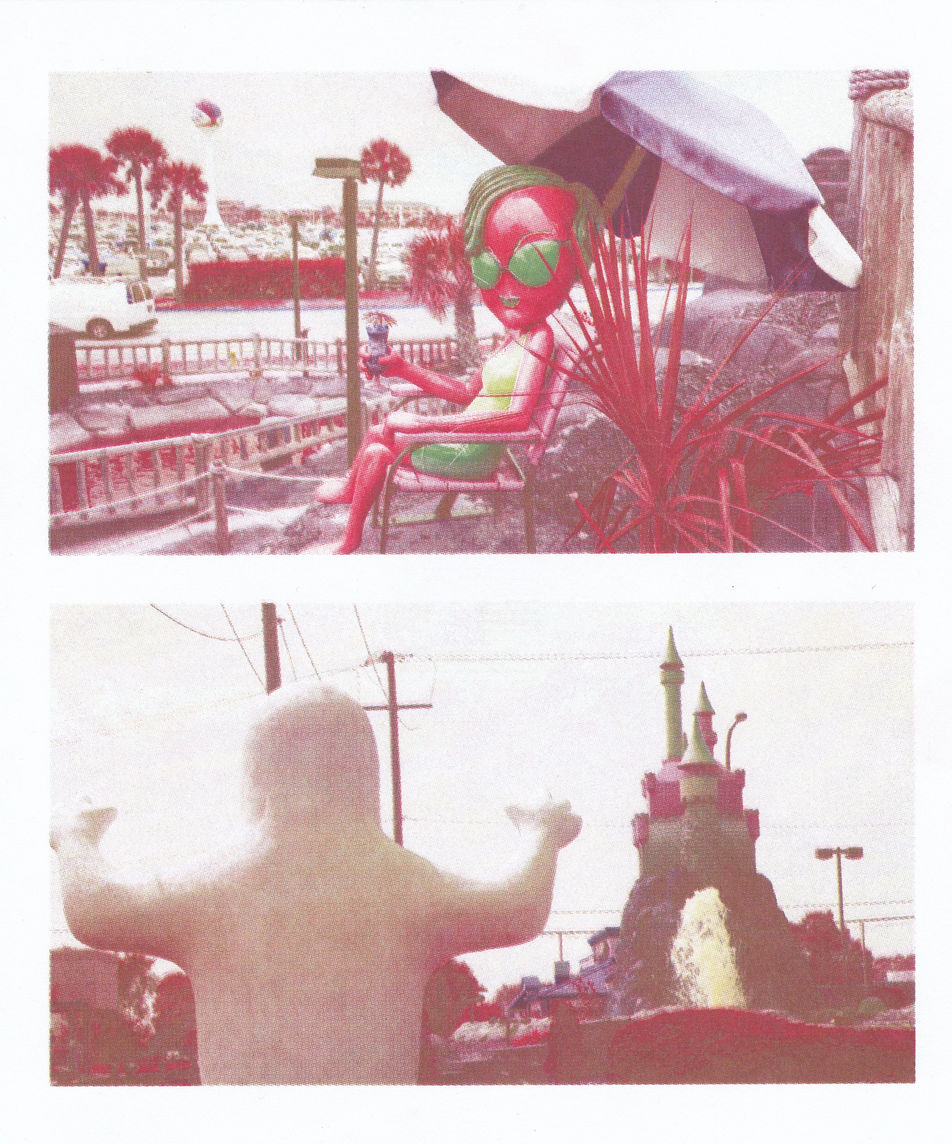
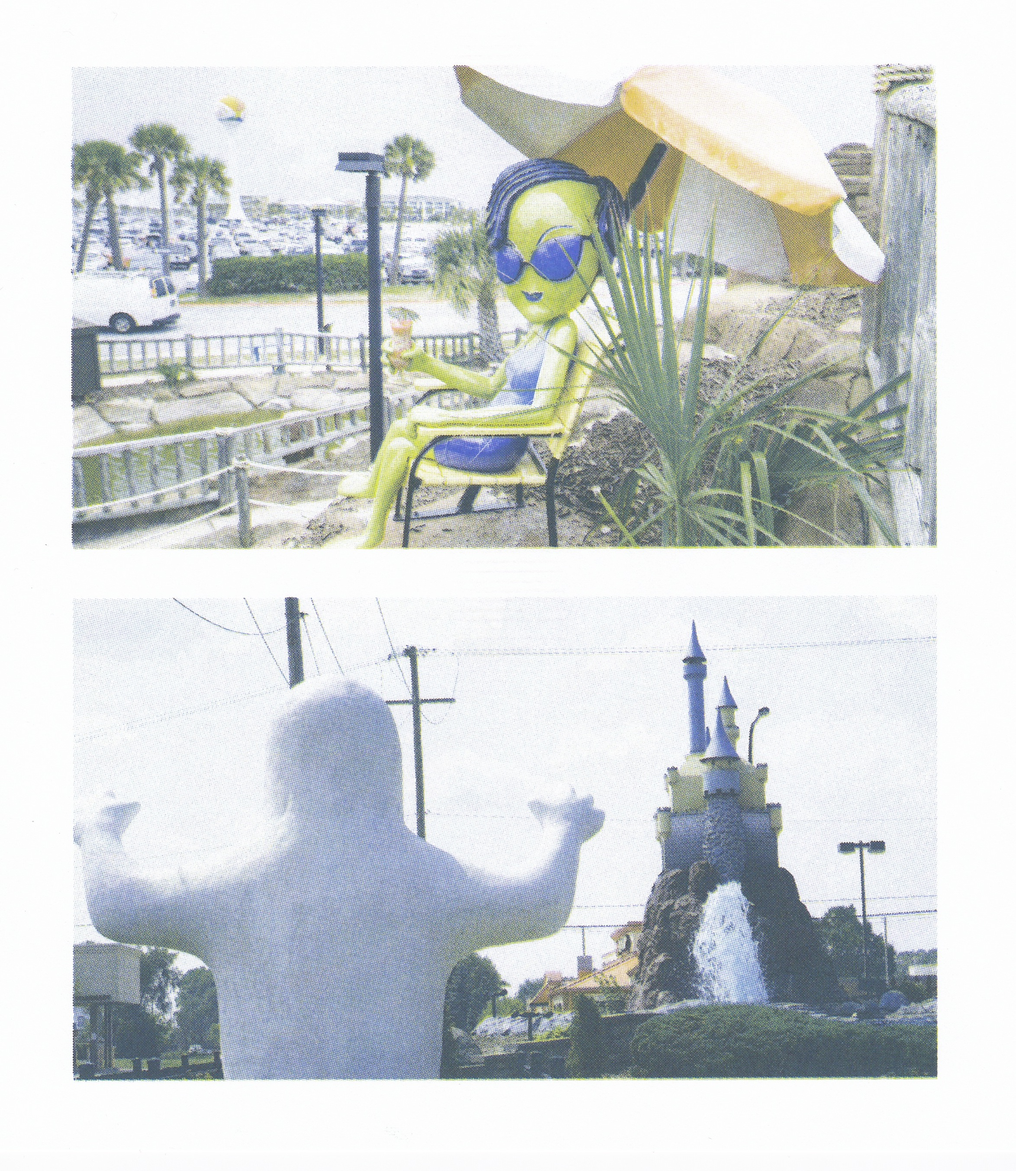
added concourse riso

diff --git a/index.html b/index.html
@@ -401,39 +401,34 @@
       <div id="riso" style="display:none">
       <div class="slideshow-container">
       <a class="next">next &#8594;</a>
-      <div class="mySlides fade">
+     <div class="mySlides fade">
         <div class="numbertext">1 / 7</div>
-        <img src= "riso1.JPG" class="risoimages slideshowimages">
+        <img src= "concourseriso1.jpg" class="risoimages slideshowimages">
       </div>
       <div class="mySlides fade">
         <div class="numbertext">2 / 7</div>
-        <img src= "riso2.JPG" class="risoimages slideshowimages">
+        <img src= "concourseriso2.jpg" class="risoimages slideshowimages">
       </div>
       <div class="mySlides fade">
         <div class="numbertext">3 / 7</div>
-        <img src= "riso3.JPG" class="risoimages slideshowimages">
+        <img src= "concourseriso3.jpg" class="risoimages slideshowimages">
       </div>
       <div class="mySlides fade">
         <div class="numbertext">4 / 7</div>
-        <img src= "riso4.JPG" class="risoimages slideshowimages">
+        <img src= "riso0.JPG" class="risoimages slideshowimages">
       </div>
       <div class="mySlides fade">
         <div class="numbertext">5 / 7</div>
-        <img src= "riso45.JPG" class="risoimages slideshowimages">
+        <img src= "riso00.JPG" class="risoimages slideshowimages">
       </div>
       <div class="mySlides fade">
         <div class="numbertext">6 / 7</div>
-        <img src= "riso5.JPG" class="risoimages slideshowimages">
-      </div>
+        <img src= "concourseriso4.jpg" class="risoimages slideshowimages">
+      </div>  
       <div class="mySlides fade">
         <div class="numbertext">7 / 7</div>
-        <img src= "riso6.JPG" class="risoimages slideshowimages">
-      </div>
-      <div class="mySlides fade">
-        <div class="numbertext">8 / 8</div>
-        <img src= "riso7.JPG" class="risoimages slideshowimages">
-      </div>
-      
+        <img src= "concourseriso5.jpg" class="risoimages slideshowimages">
+      </div>  
     <div style="display:none">
       <span class="dot"></span>
       <span class="dot"></span>
@@ -458,7 +453,7 @@
     <div id="art" style="display:none">
       <p>
         <div class="explanation"><em>(performance, installation, sound)</em></div>  
-        <a onclick="risoShow()">&#x25B8; riso prints (misc), 2022</a>
+        <a onclick="risoShow()">&#x25B8; riso prints for concourse, 2022</a>
         <br />
         <a href="https://github.com/jrnnynrlson/worldgroup" target="blank">&#x25B8; world group (collab w luiza dale), 2021 &#x2197;</a>
         <br />
@@ -473,7 +468,7 @@
         <a onclick="jcwShow()">&#x25B8; james cage white sleepy soccer pig, 2016</a>
         <br />
         <br />
-        <a href="https://soundcloud.com/gm_jn" target="blank">&#9738; concourse (solo) (cassette coming soon!) &#x2197;</a>
+        <a href="https://concourse.bandcamp.com" target="blank">&#9738; concourse (solo) (cassettes avail on bandcamp!) &#x2197;</a>
         <br />
         <a href="https://grassbrothers.bandcamp.com/album/rat-corner" target="blank">&#9738; grassbrothers (w isabel martin) (cassettes avail on bandcamp!) &#x2197;</a>
         <br />
